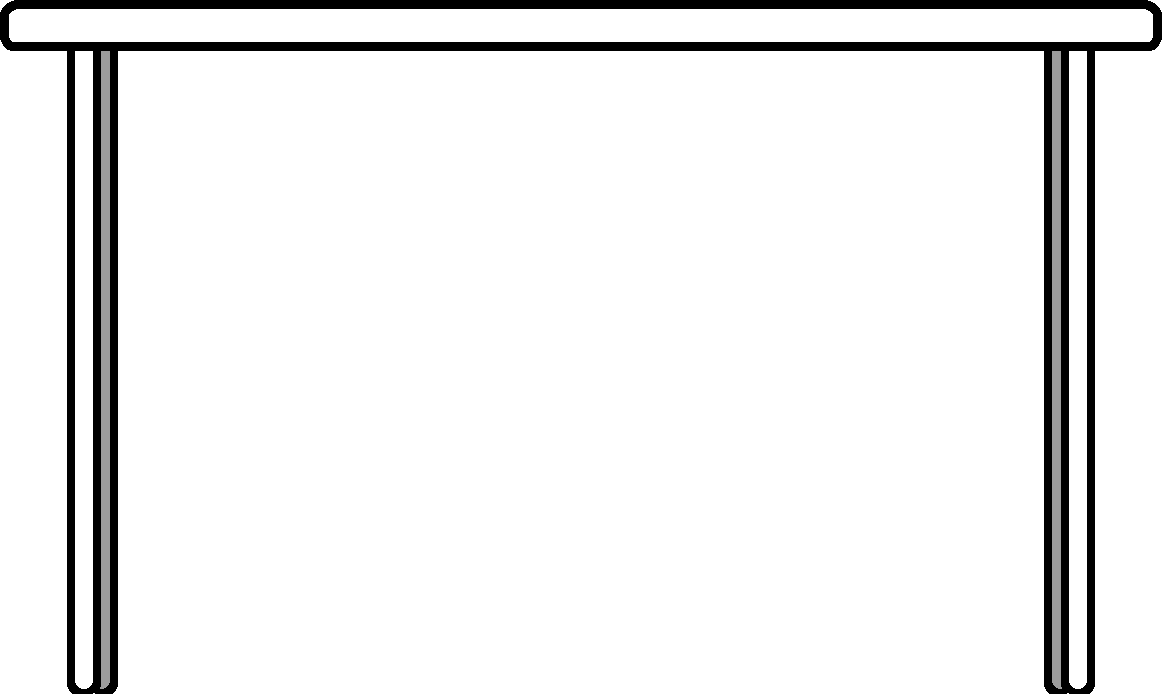
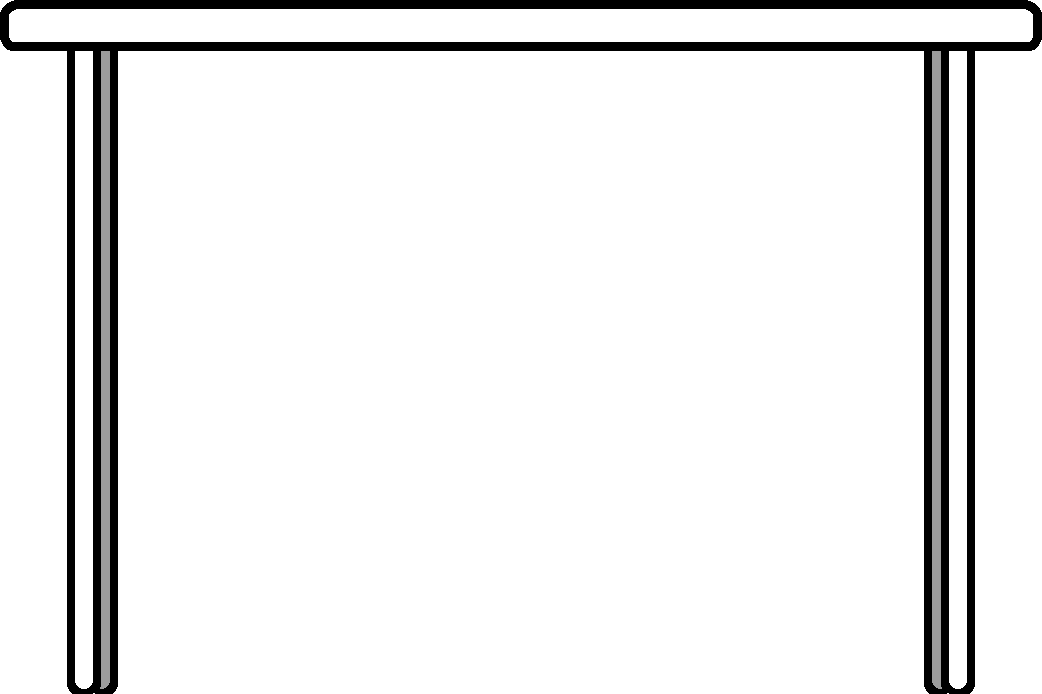
floor

Changed region(s): [[0.8599, 0.0605, 0.952, 1.0], [0.0307, 0.0605, 0.1228, 1.0]]

diff --git a/resources/Obiekty.tsx b/resources/Obiekty.tsx
@@ -1,5 +1,5 @@
 <?xml version="1.0" encoding="UTF-8"?>
-<tileset version="1.10" tiledversion="1.10.2" name="Obiekty" tilewidth="1162" tileheight="1150" tilecount="17" columns="0">
+<tileset version="1.10" tiledversion="1.10.2" name="Obiekty" tilewidth="2927" tileheight="2110" tilecount="19" columns="0">
  <grid orientation="orthogonal" width="1" height="1"/>
  <tile id="0">
   <image width="506" height="677" source="credenss.png"/>
@@ -23,7 +23,7 @@
   <image width="281" height="196" source="sink.png"/>
  </tile>
  <tile id="7">
-  <image width="1162" height="694" source="table.png"/>
+  <image width="1042" height="694" source="table.png"/>
  </tile>
  <tile id="8">
   <image width="397" height="1150" source="kitchenGirlSkin.png"/>
@@ -51,5 +51,11 @@
  </tile>
  <tile id="16">
   <image width="344" height="765" source="kitchenChair.png"/>
+ </tile>
+ <tile id="17">
+  <image width="2880" height="58" source="kitchenFloor.png"/>
+ </tile>
+ <tile id="18">
+  <image width="2927" height="2110" source="kitchenWalls.png"/>
  </tile>
 </tileset>
